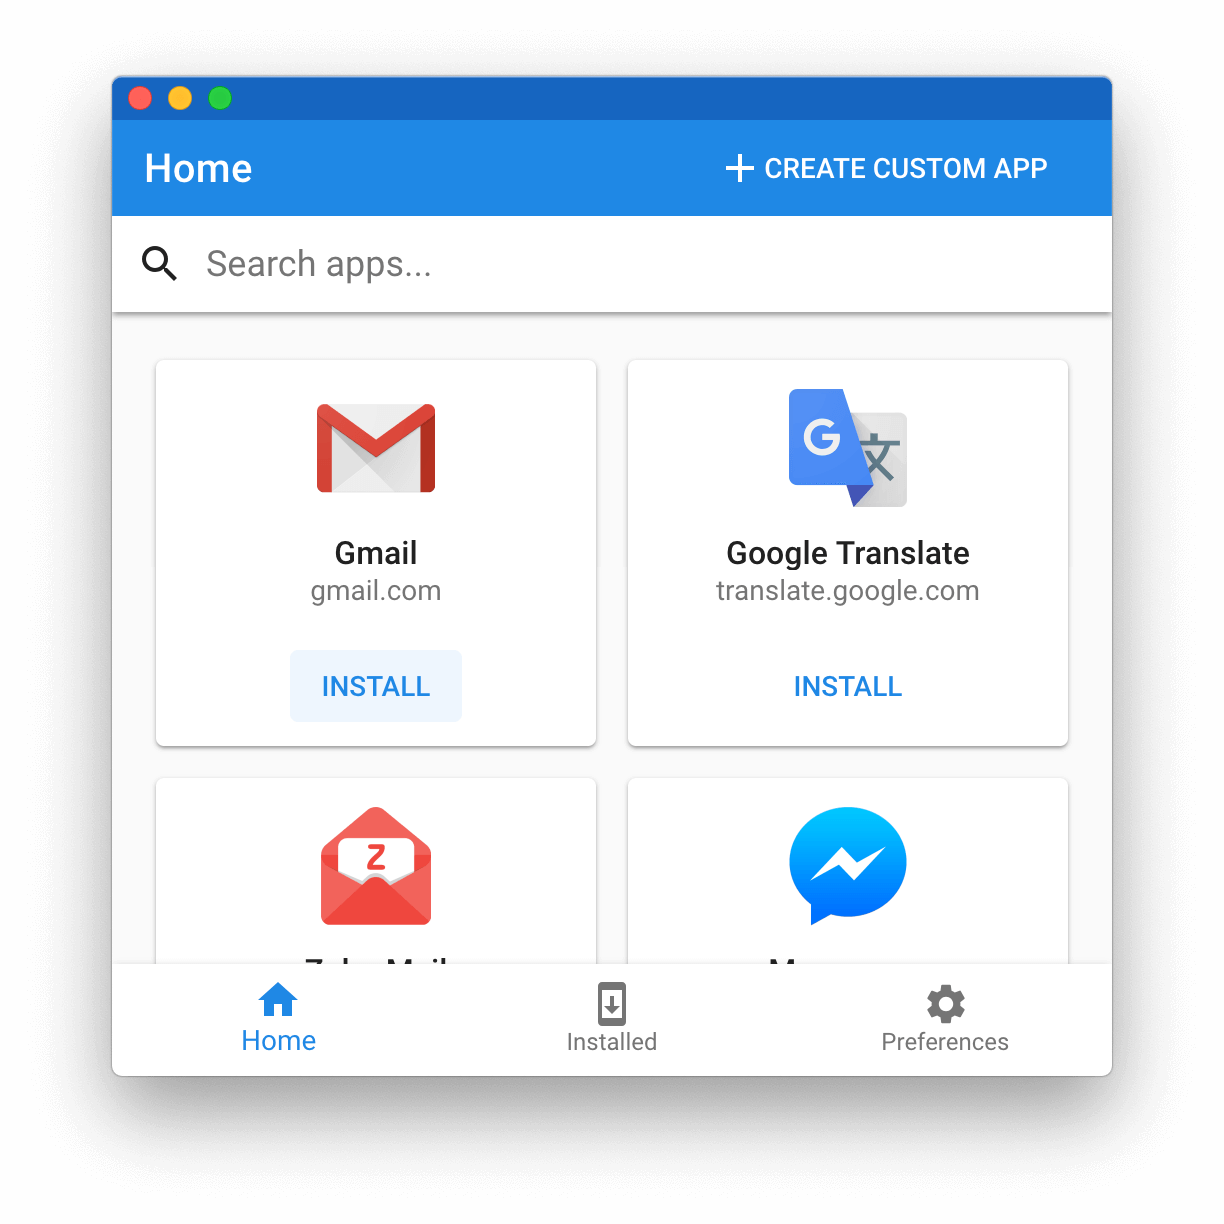
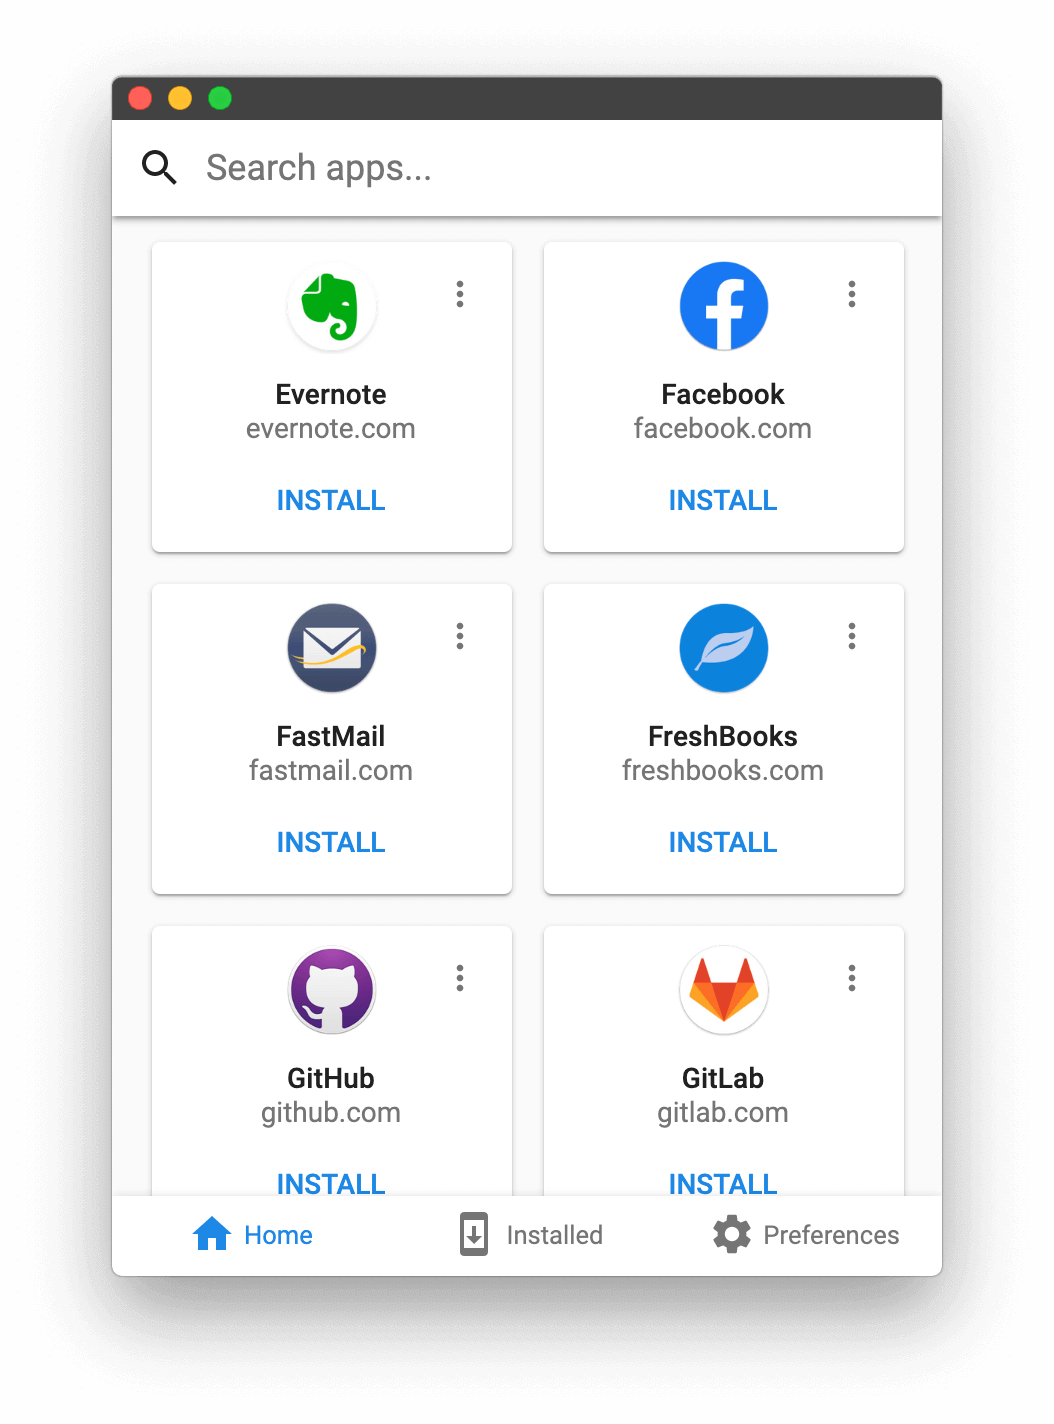
Update website

Changed region(s): [[0.0911, 0.031, 0.9108, 0.9003]]

diff --git a/docs/_layouts/download.html b/docs/_layouts/download.html
@@ -97,18 +97,10 @@ layout: default
         if (/Linux/.test(window.navigator.platform)) {
           document.getElementById('mac').style.display = 'none';
           document.getElementById('linux').style.display = '';
-          document.title = 'Download for Linux - WebCatalog';
-          history.replaceState({}, 'Download for Linux - WebCatalog', '/download/linux');
         }
         else if (['Win32', 'Win64', 'Windows', 'WinCE'].indexOf(window.navigator.platform) !== -1) {
           document.getElementById('mac').style.display = 'none';
           document.getElementById('windows').style.display = '';
-          document.title = 'Download for Windows - WebCatalog';
-          history.replaceState({}, 'Download for Windows - WebCatalog', '/download/windows');
-        }
-        else {
-          document.title = 'Download for macOS - WebCatalog';
-          history.replaceState({}, 'Download for macOS - WebCatalog', '/download/mac');
         }
       </script>
       {% endif %}
@@ -122,50 +114,50 @@ layout: default
     </div>
     <div class="content is-medium">
       <hr />
-      <p>Web applications like Gmail, Messenger, etc are becoming more and more like desktop applications but running each of these web apps in a separate tab in your browser can be a real pain. WebCatalog lets you turn any web apps into desktop apps (also called <a href="https://en.wikipedia.org/wiki/Site-specific_browser">site-specific browsers</a>). Now, you can launch your favorite apps quickly in self-contained, distraction-free windows with the ability to switch between accounts and workspaces easily. Each app's data is stored separately, protecting you from cross-website trackers and preserving your privacy.</p>
+      <p>Web applications are becoming more and more like desktop applications but running each of these web apps in a separate tab in your browser can be a real pain. WebCatalog lets you turn any web apps into desktop apps (a.k.a. <a href="https://en.wikipedia.org/wiki/Site-specific_browser">site-specific browsers</a>). Now, you can launch your favorite apps quickly in self-contained, distraction-free windows with many additional features to enhance your workflows. Even better, with sandboxing, it also protects you from cross-website trackers and preserving your privacy.</p>
       <hr />
     </div>
     <div class="content">
       <div class="columns is-multiline">
-        <div class="column is-half has-text-centered">
+        <div class="column is-full-mobile is-half-tablet is-half-desktop is-one-third-widescreen has-text-centered">
           <a href="/images/demos/catalog.png">
             <img src="/images/demos/catalog.png" alt="Catalog" class="demo">
           </a>
           <p><small><b>Catalog</b> - Install apps quickly from our curated catalog.</small></p>
         </div>
-        <div class="column is-half has-text-centered">
+        <div class="column is-full-mobile is-half-tablet is-half-desktop is-one-third-widescreen has-text-centered">
           <a href="/images/demos/custom-apps.png">
             <img src="/images/demos/custom-apps.png" alt="Custom Apps" class="demo">
           </a>
           <p><small><b>Custom Apps</b> - Create apps easily from any websites.</small></p>
         </div>
-        <div class="column is-half has-text-centered">
+        <div class="column is-full-mobile is-half-tablet is-half-desktop is-one-third-widescreen has-text-centered">
           <a href="/images/demos/appview.png">
             <img src="/images/demos/appview.png" alt="App View" class="demo">
           </a>
           <p><small><b>AppView</b> - Work just like a real native app.</small></p>
         </div>
-        <div class="column is-half has-text-centered">
-          <a href="/images/demos/workspace.png">
-            <img src="/images/demos/workspace.png" alt="Workspace" class="demo">
+        <div class="column is-full-mobile is-half-tablet is-half-desktop is-one-third-widescreen has-text-centered">
+          <a href="/images/demos/workspaces.png">
+            <img src="/images/demos/workspaces.png" alt="Workspace" class="demo">
           </a>
           <p><small><b>Workspaces</b> - Switch between multiple accounts/projects.</small></p>
         </div>
-        <div class="column is-half has-text-centered">
-          <a href="/images/demos/menubar.png">
-            <img src="/images/demos/menubar.png" alt="Menubar" class="demo">
+        <div class="column is-full-mobile is-half-tablet is-half-desktop is-one-third-widescreen has-text-centered">
+          <a href="/images/demos/notifications.png">
+            <img src="/images/demos/notifications.png" alt="Notifications" class="demo">
           </a>
-          <p><small><b>Menubar</b> - Access your apps anytime and anywhere.</small></p>
+          <p><small><b>Notifications</b> - Control notifications with scheduling.</small></p>
         </div>
-        <div class="column is-half has-text-centered">
+        <div class="column is-full-mobile is-half-tablet is-half-desktop is-one-third-widescreen has-text-centered">
           <a href="/images/demos/customization.png">
             <img src="/images/demos/customization.png" alt="Customization" class="demo">
           </a>
-          <p><small><b>Customization</b> - Customize everything to suite your taste.</small></p>
+          <p><small><b>Customization</b> - Make yourself at home!</small></p>
         </div>
         <div class="column is-full has-text-centered">
-          <a href="/images/demos/engines.png">
-            <img src="/images/demos/engines.png" alt="Engines" class="demo_main">
+          <a href="/images/demos/browser-engines.png">
+            <img src="/images/demos/browser-engines.png" alt="Browser Engines" class="demo_main">
           </a>
           <p><small><b>Browser Engines</b> - Choose between using <a href="https://electronjs.org/">Electron</a>, <a href="https://www.google.com/chrome/">Google Chrome</a>, <a href="https://www.mozilla.org/firefox/">Mozilla Firefox</a>, <a href="https://brave.com/">Brave</a>, or <a href="https://vivaldi.com/">Vivaldi</a> to power your apps<sup><a href="#fn1" id="ref1">[NOTE]</a></sup>.</small></p>
         </div>

diff --git a/docs/_layouts/default.html b/docs/_layouts/default.html
@@ -22,11 +22,6 @@
               </div>
               <div class="dropdown-menu" id="bento-menu" role="menu">
                 <div class="dropdown-content">
-                  <a class="dropdown-item" href="https://translatiumapp.com">
-                    <img src="/images/translatium-logo.svg" alt="Translatium">
-                    <p>Translate Any Languages like a Pro.</p>
-                  </a>
-                  <hr class="dropdown-divider">
                   <a class="dropdown-item" href="https://getwebcatalog.com">
                     <img src="/images/webcatalog-logo.svg" alt="WebCatalog">
                     <p>Run Web Apps like Real Apps.</p>
@@ -37,8 +32,9 @@
                     <p>All Your Apps in One Single Window.</p>
                   </a>
                   <hr class="dropdown-divider">
-                  <a class="dropdown-item" href="https://quanglam2807.com">
-                    <img src="/images/quanglam-logo.svg" alt="Quang Lam">
+                  <a class="dropdown-item" href="https://translatiumapp.com">
+                    <img src="/images/translatium-logo.svg" alt="Translatium">
+                    <p>Translate Any Languages like a Pro.</p>
                   </a>
                 </div>
               </div>

diff --git a/docs/support.html b/docs/support.html
@@ -16,7 +16,7 @@ title: Support
       <hr />
 
       <div class="columns">
-        <div class="column is-three-quarters">
+        <div class="column is-half">
           <form action="https://formspree.io/webcatalog.developer@gmail.com" method="POST">
             <div class="field">
               <div class="control">
@@ -36,7 +36,7 @@ title: Support
             <input type="submit" class="button is-primary" value="Send">
           </form>
         </div>
-        <div class="column is-5">
+        <div class="column">
           <p><b>Email</b><br>
             Email us at <a href="mailto:support@getwebcatalog.com">support@getwebcatalog.com</a>.</p>
 

diff --git a/public/windows/main.js b/public/windows/main.js
@@ -157,10 +157,10 @@ const createAsync = () => {
   win = new BrowserWindow({
     x: mainWindowState.x,
     y: mainWindowState.y,
-    width: mainWindowState.width,
-    height: mainWindowState.height,
-    minWidth: 415,
-    minHeight: 500,
+    width: 640,
+    height: 640,
+    minWidth: 640,
+    minHeight: 640,
     titleBarStyle: 'hidden',
     webPreferences: {
       nodeIntegration: true,
@@ -168,7 +168,7 @@ const createAsync = () => {
     },
   });
 
-  mainWindowState.manage(win);
+  // mainWindowState.manage(win);
 
   win.loadURL(REACT_PATH);
 

diff --git a/docs/_sass/bulma.sass b/docs/_sass/bulma.sass
@@ -22,9 +22,6 @@ body
 main
   flex: 1
 
-.container
-  max-width: 800px !important
-
 .footer
   padding: 1.5em
 

diff --git a/docs/index.html b/docs/index.html
@@ -1,3 +1,4 @@
 ---
 layout: download
+title: Download for macOS, Windows & Linux
 ---
